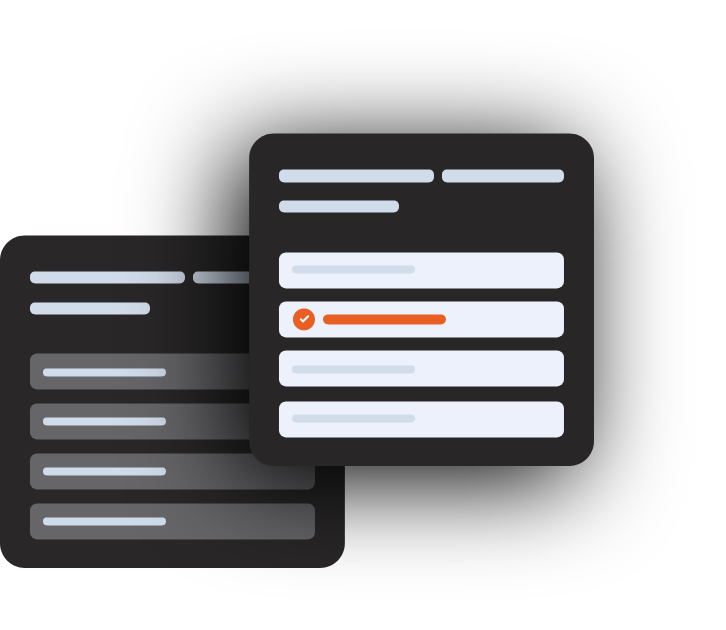
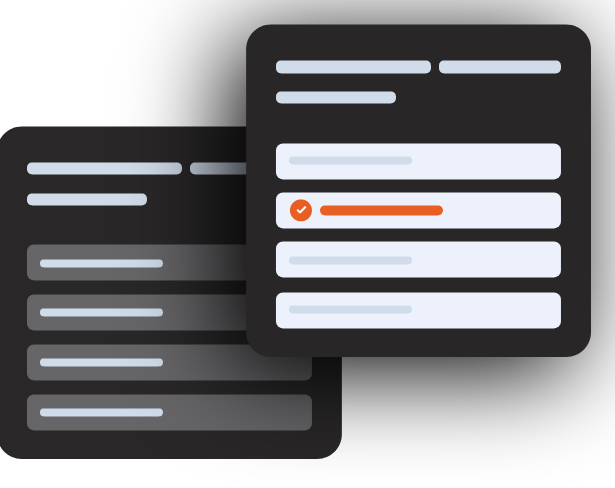
updated-globalawards

diff --git a/css/style.css b/css/style.css
@@ -19,14 +19,16 @@ html {
   font-family: "Gordita Regular";
   font-style: normal;
   font-weight: normal;
-  src: local("Gordita Regular"), url("../fonts/Gordita Regular.woff") format("woff");
+  src: local("Gordita Regular"),
+    url("../fonts/Gordita Regular.woff") format("woff");
 }
 
 @font-face {
   font-family: "Gordita Medium";
   font-style: normal;
   font-weight: normal;
-  src: local("Gordita Medium"), url("../fonts/Gordita Medium.woff") format("woff");
+  src: local("Gordita Medium"),
+    url("../fonts/Gordita Medium.woff") format("woff");
 }
 
 .wrapper {
@@ -35,7 +37,8 @@ html {
   margin: 0 auto;
 }
 
-ul, ol {
+ul,
+ol {
   list-style: none;
 }
 
@@ -90,27 +93,19 @@ header .nav a:hover {
   color: #fff;
 }
 
-header .nav .button, header .mobile-nav .button {
+header .nav .button,
+header .mobile-nav .button {
   color: #d45945;
   padding: 18px 32px;
   background: #141414;
   border-radius: 8px;
+  border: 1px solid transparent;
+  background: linear-gradient(#141414, #141414) padding-box,
+    linear-gradient(130deg, #d45945, #a14d9b) border-box;
 }
 
 header .nav .button:hover {
   background: linear-gradient(to right, #d45945, #a14d9b);
-}
-
-header .nav .button::before {
-  content: "";
-  position: absolute;
-  top: 30px;
-  transform: translateX(-20%);
-  height: 60px;
-  width: 165px;
-  z-index: -1;
-  background-image: linear-gradient(to right, #d45945, #a14d9b);
-  border-radius: 8px;
 }
 
 .sticky header {
@@ -121,7 +116,7 @@ header .nav .button::before {
   left: 0;
   z-index: 55;
   background: #141414;
-  animation: header .3s forwards;
+  animation: header 0.3s forwards;
   box-shadow: rgba(0, 0, 0, 0.16) 0px 3px 6px, rgba(0, 0, 0, 0.23) 0px 3px 6px;
 }
 
@@ -146,7 +141,7 @@ header .icon span {
   height: 3px;
   background: linear-gradient(to right, #d45945, #a14d9b);
   margin-bottom: 8px;
-  transition: .4s ease-in;
+  transition: 0.4s ease-in;
 }
 
 header .mobile-nav {
@@ -237,8 +232,8 @@ main .image-box .lefted {
 
 main .lifted {
   position: absolute;
-  right: 8%;
-  top: 12%;
+  right: 14%;
+  top: 25%;
 }
 
 /* main-end */
@@ -263,7 +258,8 @@ main .lifted {
   flex-direction: column;
   justify-content: center;
   transition: 0.3s ease-in;
-  background: linear-gradient(#141414, #141414) padding-box, linear-gradient(130deg, #d45945, #a14d9b) border-box;
+  background: linear-gradient(#141414, #141414) padding-box,
+    linear-gradient(130deg, #d45945, #a14d9b) border-box;
   border-radius: 10px;
 }
 
@@ -333,7 +329,8 @@ main .lifted {
 }
 
 #email .bg-box {
-  background: linear-gradient(85deg, #d458452a, #8b3500c0), url(../images/footer-image.png);
+  background: linear-gradient(85deg, #d458452a, #8b3500c0),
+    url(../images/footer-image.png);
   background-size: cover;
   background-position: center;
   width: 100%;
@@ -377,7 +374,7 @@ main .lifted {
   width: 18%;
   background: linear-gradient(to right, #d45945, #a14d9b);
   margin-left: -30px;
-  transition: .3s ease-in;
+  transition: 0.3s ease-in;
 }
 
 #email .bg-box .btn:hover {
@@ -411,7 +408,7 @@ footer .logo-content-box a {
   font-weight: 600;
   line-height: 1.6em;
   letter-spacing: 1px;
-  transition: .3s ease-in;
+  transition: 0.3s ease-in;
 }
 
 footer .logo-content-box a:hover {
@@ -461,12 +458,10 @@ footer p a:hover {
 
 /* responsive-screen */
 
-@media all and (max-width:1280px) {
-  body {
-    overflow-x: hidden;
-  }
+@media all and (max-width: 1280px) {
   main .lifted {
-    right: -10%;
+    right: 0;
+    top: 28%;
   }
   main .lifted img {
     width: 90%;
@@ -479,7 +474,7 @@ footer p a:hover {
   }
 }
 
-@media all and (max-width:980px) {
+@media all and (max-width: 980px) {
   header .icon {
     display: block;
     z-index: 55;
@@ -512,7 +507,7 @@ footer p a:hover {
     z-index: 44;
     backdrop-filter: blur(15px);
     box-shadow: rgba(0, 0, 0, 0.16) 0px 3px 6px, rgba(0, 0, 0, 0.23) 0px 3px 6px;
-    transition: .4s ease-in;
+    transition: 0.4s ease-in;
   }
   .active header .mobile-nav {
     top: 0;
@@ -562,7 +557,7 @@ footer p a:hover {
     background: rgba(0, 0, 0, 0.527);
     z-index: 33;
     backdrop-filter: blur(8px);
-    transition: .4s ease-in;
+    transition: 0.4s ease-in;
   }
   .active .overlay {
     visibility: visible;
@@ -645,16 +640,21 @@ footer p a:hover {
   }
 }
 
-@media all and (max-width:768px) {
+@media all and (max-width: 768px) {
+  main {
+    padding-bottom: 8%;
+  }
   main .lifted {
-    right: -152px;
-    top: 48%;
+    right: 15%;
+    top: 55%;
+    width: 65%;
   }
   main .image-box {
     height: 300px;
   }
   main .lifted img {
-    width: 70%;
+    width: 100%;
+    display: block;
   }
   #email {
     padding: 8% 0;
@@ -670,7 +670,7 @@ footer p a:hover {
   }
 }
 
-@media all and (max-width:640px) {
+@media all and (max-width: 640px) {
   main h1 {
     font-size: 45px;
   }
@@ -678,8 +678,7 @@ footer p a:hover {
     width: 100%;
   }
   main .lifted {
-    right: -218px;
-    top: 45%;
+    top: 60%;
   }
   #awards .items li {
     width: 60%;
@@ -700,7 +699,7 @@ footer p a:hover {
   }
 }
 
-@media all and (max-width:480px) {
+@media all and (max-width: 480px) {
   .sticky header .wrapper {
     display: flex;
     align-items: center;
@@ -718,10 +717,6 @@ footer p a:hover {
   }
   main .text p {
     font-size: 18px;
-  }
-  main .lifted {
-    left: 50px;
-    top: 50%;
   }
   main button {
     font-size: 16px;
@@ -765,7 +760,10 @@ footer p a:hover {
     font-size: 16px;
   }
 }
-@media all and (max-width:360px){
+@media all and (max-width: 360px) {
+  main {
+    padding-bottom: 5%;
+  }
   main h1 {
     font-size: 26px;
   }
@@ -775,11 +773,10 @@ footer p a:hover {
   main button {
     font-size: 14px;
   }
-  main .lifted img {
-    width: 65%;
-  }
   main .lifted {
-    left: 30px;
+    left: 34px;
+    top: 63%;
+    width: 80%;
   }
   #awards .items li {
     width: 100%;
@@ -792,9 +789,10 @@ footer p a:hover {
     margin: 20px auto;
   }
 }
-@media all and (max-width:320px) {
+@media all and (max-width: 320px) {
   main .lifted {
-    top: 56%;
+    left: 34px;
+    top: 65%;
   }
   #awards .items .container h2 {
     font-size: 20px;
@@ -808,7 +806,7 @@ footer p a:hover {
   #email .bg-box p {
     font-size: 16px;
   }
-  footer .logo-content-box a{
+  footer .logo-content-box a {
     font-size: 14px;
   }
   footer .nav li a {

diff --git a/index.html b/index.html
@@ -12,6 +12,7 @@
     <script src="./js/index.js"></script>
     <!-- fav-icon -->
     <link rel="icon" href="./images/favicon.png" />
+    
   </head>
   <body>
     <header>
@@ -26,19 +27,19 @@
           <li><a href="#">Contact Us</a></li>
           <li><a href="#" class="button btn">Get Start</a></li>
         </ul>
-         <!-- mobile-menu -->
-      <div class="icon" onclick="showMenu()">
-        <span></span>
-        <span></span>
-        <span></span>
-    </div>
-    <ul class="mobile-nav">
-      <li><a href="#">Home</a></li>
-      <li><a href="#">About Us</a></li>
-      <li><a href="#">Awards</a></li>
-      <li><a href="#">Contact Us</a></li>
-      <li><a href="#" class="button btn">Get Start</a></li>
-    </ul>
+        <!-- mobile-menu -->
+        <div class="icon" onclick="showMenu()">
+          <span></span>
+          <span></span>
+          <span></span>
+        </div>
+        <ul class="mobile-nav">
+          <li><a href="#">Home</a></li>
+          <li><a href="#">About Us</a></li>
+          <li><a href="#">Awards</a></li>
+          <li><a href="#">Contact Us</a></li>
+          <li><a href="#" class="button btn">Get Start</a></li>
+        </ul>
       </div>
     </header>
     <!-- header-end -->
@@ -46,19 +47,23 @@
     <main>
       <div class="wrapper">
         <div class="text">
-          <h1 class="wow fadeInLeft">2021 Global Design <span>Awards</span> Published</h1>
+          <h1 class="wow fadeInLeft">
+            2021 Global Design <span>Awards</span> Published
+          </h1>
           <p class="wow fadeInLeft" data-wow-delay=".2s">
             Here we published 2021 global design awards for the design
             Competitons
           </p>
-          <button class="wow fadeInLeft" data-wow-delay=".3s"><span>Already impressed?</span>Get started today!</button>
+          <button class="wow fadeInLeft" data-wow-delay=".3s">
+            <span>Already impressed?</span>Get started today!
+          </button>
         </div>
         <div class="image-box wow fadeInRight">
           <img src="./images/pattern-color.png" alt="Blured" class="lefted" />
           <img src="./images/pattern-color.png" alt="Blured" class="rised" />
         </div>
         <div class="lifted">
-          <img src="./images/spot-image.svg" alt="" />
+          <img src="./images/spot-image.png" alt="" />
         </div>
       </div>
     </main>
@@ -144,7 +149,9 @@
       <div class="wrapper">
         <div class="bg-box">
           <div class="text-box">
-            <h1 class="wow fadeInLeft" data-wow-duration="2s">Want to get new design news</h1>
+            <h1 class="wow fadeInLeft" data-wow-duration="2s">
+              Want to get new design news
+            </h1>
             <p class="wow fadeInLeft" data-wow-duration="2s">
               Here is an comparison chart of us thipsum tool, but at the end we
               win!
@@ -170,8 +177,8 @@
           <img src="./images/logo.png" alt="Logo" />
           <p>
             <a href="#">
-                Apartment 0031 Broadmoor Ln, Rotonda West Wood, <br />
-            FL 33947
+              Apartment 0031 Broadmoor Ln, Rotonda West Wood, <br />
+              FL 33947
             </a>
           </p>
         </div>
